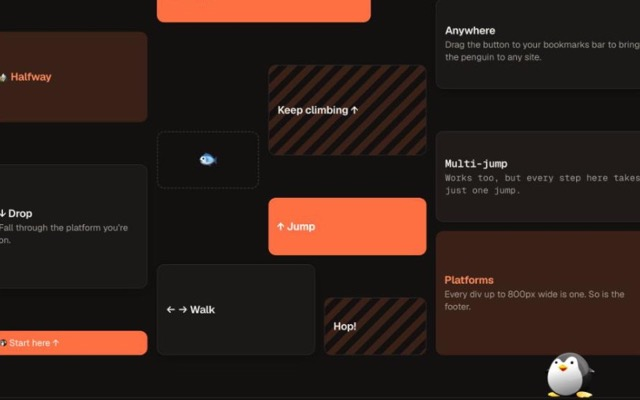
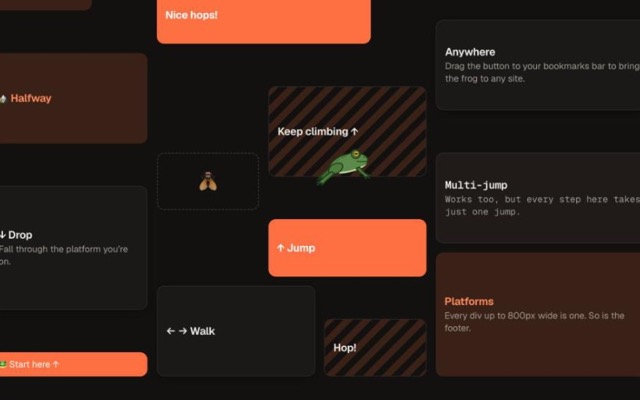
Div Jumper: the penguin is now an animated frog
- New sprites docs/site/images/frog.svg (sitting) and frog-leap.svg
  (mid-leap): a crouched tree frog in profile, flat and understated.
- divJumper.js swaps sprites in the air, stretches on takeoff, squashes
  on landing and tips nose-down when falling; feet are measured from the
  untransformed box so the animation never affects landings.
- The footer link, Div Jumper's project emoji and its page say frog/🐸;
  the page's fish is now a fly. penguin.png is gone.

diff --git a/docs/site/div-jumper/divJumper.js b/docs/site/div-jumper/divJumper.js
@@ -14,7 +14,7 @@ if (!document.ranDivJumper) {
 		// Arrows move, as in every game here: up jumps, down drops through.
 		// Inside, they keep the letters the game was written with.
 		var ARROWS = { ArrowUp: 'W', ArrowLeft: 'A', ArrowDown: 'S', ArrowRight: 'D' };
-		// The penguin sits beside this script, wherever it's served from.
+		// The frog's sprites sit beside this script, wherever it's served from.
 		var HERE = (document.currentScript && document.currentScript.src) || location.href;
 
 		document.addEventListener("keydown", function (evt) {
@@ -35,16 +35,26 @@ if (!document.ranDivJumper) {
 		});
 
 
+		// Two poses, both facing left in the same 120x84 box: sitting, and mid-leap.
+		var SIT = new URL("../images/frog.svg", HERE).href;
+		var LEAP = new URL("../images/frog-leap.svg", HERE).href;
+		new Image().src = LEAP; // preload, so the first hop doesn't flicker
+
 		var elem = document.createElement('img');
-		elem.src = new URL("../images/penguin.png", HERE).href;
-		// A page's own img styles mustn't move or squeeze the penguin.
+		elem.src = SIT;
+		elem.alt = "";
+		// A page's own img styles mustn't move or squeeze the frog.
 		elem.style.margin = "0";
 		elem.style.maxWidth = "none";
-		elem.addEventListener("load", () => {
+		elem.style.pointerEvents = "none";
+		elem.style.transformOrigin = "50% 100%"; // squash and tilt from the feet
+		elem.style.zIndex = "2147483647";
+		elem.addEventListener("load", function start() {
+			elem.removeEventListener("load", start); // swapping poses fires load again
 			BODY.appendChild(elem);
 			window.scrollTo(0, BODY.scrollHeight);
 			// Start on the bottom of the page, at the right, facing into the page.
-			CHAR = new Character(elem, DOC.clientWidth - 100, 0, 75);
+			CHAR = new Character(elem, DOC.clientWidth - 100, 0, 84);
 			LAST_TIME = new Date().getTime();
 			setInterval(tick, 20);
 		});
@@ -96,19 +106,19 @@ if (!document.ranDivJumper) {
 				KEY_RESPONDERS.push(this);
 				this.dy = 0;
 				this.on = this.under();
-
-				// console.log(elem.offsetHeight);
-				// elem.height = h;
-
-
+				this.facing = 1; // 1: left, as drawn; -1: mirrored to face right
+				this.jumpedAt = -Infinity;
+				this.landedAt = -Infinity;
+				this.pose();
 			}
 			tick(dt = 0) {
+				var wasUp = this.y > 0;
 				if (DOWN['D'] && !DOWN['A']) {
-					this.elem.style.transform = "rotateY(180deg)";
+					this.facing = -1;
 					this.setx(Math.min(DOC.clientWidth - this.elem.width / 2, this.x + dt * 0.5));
 				}
 				if (DOWN['A'] && !DOWN['D']) {
-					this.elem.style.transform = "rotateY(0deg)";
+					this.facing = 1;
 					this.setx(Math.max(this.elem.width / 2, this.x - dt * 0.5));
 				}
 
@@ -130,10 +140,31 @@ if (!document.ranDivJumper) {
 							this.sitOn(e2);
 						}
 					}
+					if (wasUp && this.y <= 0) this.landedAt = Date.now(); // hit the page bottom
 				}
+				this.pose();
 				this.follow();
 			}
-			// Scroll the page to keep the penguin in view (the arrow keys can't).
+			// Sitting or leaping sprite, a stretch on takeoff and a squash on landing,
+			// and a nose-down tilt on the way down.
+			pose() {
+				var now = Date.now();
+				var grounded = this.on || this.y <= 0;
+				var src = grounded ? SIT : LEAP;
+				if (this.elem.src !== src) this.elem.src = src;
+				var sx = 1, sy = 1, tilt = 0, k;
+				if (now - this.landedAt < 140) {
+					k = 1 - (now - this.landedAt) / 140;
+					sx = 1 + 0.12 * k; sy = 1 - 0.16 * k;
+				} else if (now - this.jumpedAt < 160) {
+					k = 1 - (now - this.jumpedAt) / 160;
+					sx = 1 - 0.08 * k; sy = 1 + 0.12 * k;
+				}
+				if (!grounded && this.dy < 0) tilt = Math.max(-18, this.dy * 18);
+				this.elem.style.transform =
+					"scaleX(" + this.facing * sx + ") scaleY(" + sy + ") rotate(" + tilt + "deg)";
+			}
+			// Scroll the page to keep the frog in view (the arrow keys can't).
 			follow() {
 				var r = this.elem.getBoundingClientRect();
 				var margin = Math.min(160, window.innerHeight / 4);
@@ -144,6 +175,7 @@ if (!document.ranDivJumper) {
 				}
 			}
 			sitOn(elem) {
+				if (!this.on) this.landedAt = Date.now();
 				this.on = elem;
 				this.dy = 0;
 				this.settop(elem.getBoundingClientRect().top - BODY.getBoundingClientRect().top - this.elem.height);
@@ -151,6 +183,7 @@ if (!document.ranDivJumper) {
 			jump(elem) {
 				this.dy = 1;
 				this.on = null;
+				this.jumpedAt = Date.now();
 			}
 			key(c) {
 				switch (c) {
@@ -160,8 +193,10 @@ if (!document.ranDivJumper) {
 				}
 			}
 			under() {
-				var rect = this.elem.getBoundingClientRect();
-				return getDiv(document.elementFromPoint((rect.left + rect.right) / 2, rect.bottom + 1));
+				// Measure the untransformed box, so squash and tilt never move the feet.
+				var x = this.elem.offsetLeft + this.elem.offsetWidth / 2 - window.scrollX;
+				var bottom = this.elem.offsetTop + this.elem.offsetHeight - window.scrollY;
+				return getDiv(document.elementFromPoint(x, bottom + 1));
 			}
 			remove() {
 				TICK_RESPONDERS.splice(TICK_RESPONDERS.indexOf(this), 1);

diff --git a/docs/site/div-jumper/index.html b/docs/site/div-jumper/index.html
@@ -83,30 +83,30 @@
     <p><strong>Click to play on this page</strong>, or drag the button to your bookmarks bar to play on any site.</p>
   </div>
   <section class="jumper-grid" aria-label="Platforms">
-    <div class="pf e" style="grid-area: 1 / 1 / span 2 / span 2"><span class="big">🐧</span></div>
+    <div class="pf e" style="grid-area: 1 / 1 / span 2 / span 2"><span class="big">🐸</span></div>
     <div class="pf b" style="grid-area: 1 / 3 / span 2 / span 5"><h3>🎯 Goal</h3><p>Climb all the way to the ☀ button at the top.</p></div>
     <div class="pf c" style="grid-area: 1 / 8 / span 1 / span 5"><p>↑ The title and the ☀ button are platforms too</p></div>
     <div class="pf b" style="grid-area: 3 / 1 / span 3 / span 2"><span class="big">🎈</span></div>
     <div class="pf a" style="grid-area: 3 / 8 / span 2 / span 5"><h3>Almost there…</h3></div>
     <div class="pf d" style="grid-area: 5 / 4 / span 2 / span 4"><h3>Nice hops!</h3></div>
-    <div class="pf a" style="grid-area: 6 / 9 / span 3 / span 4"><h3>Anywhere</h3><p>Drag the button to your bookmarks bar to bring the penguin to any site.</p></div>
+    <div class="pf a" style="grid-area: 6 / 9 / span 3 / span 4"><h3>Anywhere</h3><p>Drag the button to your bookmarks bar to bring the frog to any site.</p></div>
     <div class="pf b" style="grid-area: 7 / 1 / span 3 / span 3"><h3>🏔 Halfway</h3></div>
     <div class="pf e" style="grid-area: 8 / 6 / span 3 / span 3"><h3>Keep climbing ↑</h3></div>
-    <div class="pf c" style="grid-area: 10 / 4 / span 2 / span 2"><span class="big">🐟</span></div>
+    <div class="pf c" style="grid-area: 10 / 4 / span 2 / span 2"><span class="big">🪰</span></div>
     <div class="pf f" style="grid-area: 10 / 9 / span 3 / span 4"><h3>Multi-jump</h3><p>Works too, but every step here takes just one jump.</p></div>
     <div class="pf a" style="grid-area: 11 / 1 / span 4 / span 3"><h3>↓ Drop</h3><p>Fall through the platform you’re on.</p></div>
     <div class="pf d" style="grid-area: 12 / 6 / span 2 / span 3"><h3>↑ Jump</h3></div>
     <div class="pf b" style="grid-area: 13 / 9 / span 4 / span 4"><h3>Platforms</h3><p>Every div up to 800px wide is one. So is the footer.</p></div>
     <div class="pf a" style="grid-area: 14 / 4 / span 3 / span 3"><h3>← → Walk</h3></div>
     <div class="pf e" style="grid-area: 15 / 7 / span 2 / span 2"><h3>Hop!</h3></div>
-    <div class="pf d" style="grid-area: 16 / 1 / span 1 / span 3"><p>🐧 Start here ↑</p></div>
+    <div class="pf d" style="grid-area: 16 / 1 / span 1 / span 3"><p>🐸 Start here ↑</p></div>
   </section>
 </article>
 </main>
 <footer class="site-footer">
   <div class="wrap">
     <span>&copy; Alexander Varga</span>
-    <nav aria-label="Elsewhere"><a href="https://github.com/asvarga" target="_blank" rel="noopener">GitHub</a><a href="https://www.linkedin.com/in/alexander-varga/" target="_blank" rel="noopener">LinkedIn</a><a href="https://www.stackoverflow.com/users/1684606/alex-varga" target="_blank" rel="noopener">Stack Overflow</a><a href="https://www.youtube.com/user/avarga93/videos" target="_blank" rel="noopener">YouTube</a><a href="https://www.flickr.com/photos/124356640@N03" target="_blank" rel="noopener">Flickr</a><a href="https://www.vimeo.com/user99108597" target="_blank" rel="noopener">Vimeo</a><a class="summon" href="javascript:var s=document.createElement('script');document.body.appendChild(s);s.id='divJumper';s.src='https://asvarga.com/site/div-jumper/divJumper.js';void(0);" title="Summon the penguin" aria-label="Div Jumper: summon the penguin">🐧</a></nav>
+    <nav aria-label="Elsewhere"><a href="https://github.com/asvarga" target="_blank" rel="noopener">GitHub</a><a href="https://www.linkedin.com/in/alexander-varga/" target="_blank" rel="noopener">LinkedIn</a><a href="https://www.stackoverflow.com/users/1684606/alex-varga" target="_blank" rel="noopener">Stack Overflow</a><a href="https://www.youtube.com/user/avarga93/videos" target="_blank" rel="noopener">YouTube</a><a href="https://www.flickr.com/photos/124356640@N03" target="_blank" rel="noopener">Flickr</a><a href="https://www.vimeo.com/user99108597" target="_blank" rel="noopener">Vimeo</a><a class="summon" href="javascript:var s=document.createElement('script');document.body.appendChild(s);s.id='divJumper';s.src='https://asvarga.com/site/div-jumper/divJumper.js';void(0);" title="Summon the frog" aria-label="Div Jumper: summon the frog">🐸</a></nav>
   </div>
 </footer>
 </body>

diff --git a/docs/site/index.html b/docs/site/index.html
@@ -111,7 +111,7 @@
     </li>
     <li class="card" data-platform>
       <div class="shot"><img src="/files/projects/div-jumper.jpg" alt="" loading="lazy"></div>
-      <h3><span class="emoji" aria-hidden="true">🐧</span> <a href="/site/div-jumper/">Div Jumper</a> </h3>
+      <h3><span class="emoji" aria-hidden="true">🐸</span> <a href="/site/div-jumper/">Div Jumper</a> </h3>
       <p>A platformer in a bookmarklet: play it on this site, or drag it to your bookmarks bar and play on any site.</p>
       <div class="links"><span class="tag">#games</span></div>
     </li>
@@ -127,7 +127,7 @@
 <footer class="site-footer">
   <div class="wrap">
     <span>&copy; Alexander Varga</span>
-    <nav aria-label="Elsewhere"><a href="https://github.com/asvarga" target="_blank" rel="noopener">GitHub</a><a href="https://www.linkedin.com/in/alexander-varga/" target="_blank" rel="noopener">LinkedIn</a><a href="https://www.stackoverflow.com/users/1684606/alex-varga" target="_blank" rel="noopener">Stack Overflow</a><a href="https://www.youtube.com/user/avarga93/videos" target="_blank" rel="noopener">YouTube</a><a href="https://www.flickr.com/photos/124356640@N03" target="_blank" rel="noopener">Flickr</a><a href="https://www.vimeo.com/user99108597" target="_blank" rel="noopener">Vimeo</a><a class="summon" href="javascript:var s=document.createElement('script');document.body.appendChild(s);s.id='divJumper';s.src='https://asvarga.com/site/div-jumper/divJumper.js';void(0);" title="Summon the penguin" aria-label="Div Jumper: summon the penguin">🐧</a></nav>
+    <nav aria-label="Elsewhere"><a href="https://github.com/asvarga" target="_blank" rel="noopener">GitHub</a><a href="https://www.linkedin.com/in/alexander-varga/" target="_blank" rel="noopener">LinkedIn</a><a href="https://www.stackoverflow.com/users/1684606/alex-varga" target="_blank" rel="noopener">Stack Overflow</a><a href="https://www.youtube.com/user/avarga93/videos" target="_blank" rel="noopener">YouTube</a><a href="https://www.flickr.com/photos/124356640@N03" target="_blank" rel="noopener">Flickr</a><a href="https://www.vimeo.com/user99108597" target="_blank" rel="noopener">Vimeo</a><a class="summon" href="javascript:var s=document.createElement('script');document.body.appendChild(s);s.id='divJumper';s.src='https://asvarga.com/site/div-jumper/divJumper.js';void(0);" title="Summon the frog" aria-label="Div Jumper: summon the frog">🐸</a></nav>
   </div>
 </footer>
 </body>

diff --git a/docs/site/ackermann/index.html b/docs/site/ackermann/index.html
@@ -53,7 +53,7 @@ The default settings show A(3, 1) reducing to 13.
 <footer class="site-footer">
   <div class="wrap">
     <span>&copy; Alexander Varga</span>
-    <nav aria-label="Elsewhere"><a href="https://github.com/asvarga" target="_blank" rel="noopener">GitHub</a><a href="https://www.linkedin.com/in/alexander-varga/" target="_blank" rel="noopener">LinkedIn</a><a href="https://www.stackoverflow.com/users/1684606/alex-varga" target="_blank" rel="noopener">Stack Overflow</a><a href="https://www.youtube.com/user/avarga93/videos" target="_blank" rel="noopener">YouTube</a><a href="https://www.flickr.com/photos/124356640@N03" target="_blank" rel="noopener">Flickr</a><a href="https://www.vimeo.com/user99108597" target="_blank" rel="noopener">Vimeo</a><a class="summon" href="javascript:var s=document.createElement('script');document.body.appendChild(s);s.id='divJumper';s.src='https://asvarga.com/site/div-jumper/divJumper.js';void(0);" title="Summon the penguin" aria-label="Div Jumper: summon the penguin">🐧</a></nav>
+    <nav aria-label="Elsewhere"><a href="https://github.com/asvarga" target="_blank" rel="noopener">GitHub</a><a href="https://www.linkedin.com/in/alexander-varga/" target="_blank" rel="noopener">LinkedIn</a><a href="https://www.stackoverflow.com/users/1684606/alex-varga" target="_blank" rel="noopener">Stack Overflow</a><a href="https://www.youtube.com/user/avarga93/videos" target="_blank" rel="noopener">YouTube</a><a href="https://www.flickr.com/photos/124356640@N03" target="_blank" rel="noopener">Flickr</a><a href="https://www.vimeo.com/user99108597" target="_blank" rel="noopener">Vimeo</a><a class="summon" href="javascript:var s=document.createElement('script');document.body.appendChild(s);s.id='divJumper';s.src='https://asvarga.com/site/div-jumper/divJumper.js';void(0);" title="Summon the frog" aria-label="Div Jumper: summon the frog">🐸</a></nav>
   </div>
 </footer>
 <script>addEventListener("load", init);</script>

diff --git a/docs/site/hybrid-env/index.html b/docs/site/hybrid-env/index.html
@@ -405,7 +405,7 @@
 <footer class="site-footer">
   <div class="wrap">
     <span>&copy; Alexander Varga</span>
-    <nav aria-label="Elsewhere"><a href="https://github.com/asvarga" target="_blank" rel="noopener">GitHub</a><a href="https://www.linkedin.com/in/alexander-varga/" target="_blank" rel="noopener">LinkedIn</a><a href="https://www.stackoverflow.com/users/1684606/alex-varga" target="_blank" rel="noopener">Stack Overflow</a><a href="https://www.youtube.com/user/avarga93/videos" target="_blank" rel="noopener">YouTube</a><a href="https://www.flickr.com/photos/124356640@N03" target="_blank" rel="noopener">Flickr</a><a href="https://www.vimeo.com/user99108597" target="_blank" rel="noopener">Vimeo</a><a class="summon" href="javascript:var s=document.createElement('script');document.body.appendChild(s);s.id='divJumper';s.src='https://asvarga.com/site/div-jumper/divJumper.js';void(0);" title="Summon the penguin" aria-label="Div Jumper: summon the penguin">🐧</a></nav>
+    <nav aria-label="Elsewhere"><a href="https://github.com/asvarga" target="_blank" rel="noopener">GitHub</a><a href="https://www.linkedin.com/in/alexander-varga/" target="_blank" rel="noopener">LinkedIn</a><a href="https://www.stackoverflow.com/users/1684606/alex-varga" target="_blank" rel="noopener">Stack Overflow</a><a href="https://www.youtube.com/user/avarga93/videos" target="_blank" rel="noopener">YouTube</a><a href="https://www.flickr.com/photos/124356640@N03" target="_blank" rel="noopener">Flickr</a><a href="https://www.vimeo.com/user99108597" target="_blank" rel="noopener">Vimeo</a><a class="summon" href="javascript:var s=document.createElement('script');document.body.appendChild(s);s.id='divJumper';s.src='https://asvarga.com/site/div-jumper/divJumper.js';void(0);" title="Summon the frog" aria-label="Div Jumper: summon the frog">🐸</a></nav>
   </div>
 </footer>
 <script src="https://cdnjs.cloudflare.com/ajax/libs/ace/1.2.4/ace.js"></script>

diff --git a/docs/blog/2024/06/22/fair-chess-and-simultaneous-games/index.html b/docs/blog/2024/06/22/fair-chess-and-simultaneous-games/index.html
@@ -184,7 +184,7 @@ Empty Board:
 <footer class="site-footer">
   <div class="wrap">
     <span>&copy; Alexander Varga</span>
-    <nav aria-label="Elsewhere"><a href="https://github.com/asvarga" target="_blank" rel="noopener">GitHub</a><a href="https://www.linkedin.com/in/alexander-varga/" target="_blank" rel="noopener">LinkedIn</a><a href="https://www.stackoverflow.com/users/1684606/alex-varga" target="_blank" rel="noopener">Stack Overflow</a><a href="https://www.youtube.com/user/avarga93/videos" target="_blank" rel="noopener">YouTube</a><a href="https://www.flickr.com/photos/124356640@N03" target="_blank" rel="noopener">Flickr</a><a href="https://www.vimeo.com/user99108597" target="_blank" rel="noopener">Vimeo</a><a class="summon" href="javascript:var s=document.createElement('script');document.body.appendChild(s);s.id='divJumper';s.src='https://asvarga.com/site/div-jumper/divJumper.js';void(0);" title="Summon the penguin" aria-label="Div Jumper: summon the penguin">🐧</a></nav>
+    <nav aria-label="Elsewhere"><a href="https://github.com/asvarga" target="_blank" rel="noopener">GitHub</a><a href="https://www.linkedin.com/in/alexander-varga/" target="_blank" rel="noopener">LinkedIn</a><a href="https://www.stackoverflow.com/users/1684606/alex-varga" target="_blank" rel="noopener">Stack Overflow</a><a href="https://www.youtube.com/user/avarga93/videos" target="_blank" rel="noopener">YouTube</a><a href="https://www.flickr.com/photos/124356640@N03" target="_blank" rel="noopener">Flickr</a><a href="https://www.vimeo.com/user99108597" target="_blank" rel="noopener">Vimeo</a><a class="summon" href="javascript:var s=document.createElement('script');document.body.appendChild(s);s.id='divJumper';s.src='https://asvarga.com/site/div-jumper/divJumper.js';void(0);" title="Summon the frog" aria-label="Div Jumper: summon the frog">🐸</a></nav>
   </div>
 </footer>
 </body>

diff --git a/docs/blog/2026/03/24/nanobots/index.html b/docs/blog/2026/03/24/nanobots/index.html
@@ -85,7 +85,7 @@ while true:
 <footer class="site-footer">
   <div class="wrap">
     <span>&copy; Alexander Varga</span>
-    <nav aria-label="Elsewhere"><a href="https://github.com/asvarga" target="_blank" rel="noopener">GitHub</a><a href="https://www.linkedin.com/in/alexander-varga/" target="_blank" rel="noopener">LinkedIn</a><a href="https://www.stackoverflow.com/users/1684606/alex-varga" target="_blank" rel="noopener">Stack Overflow</a><a href="https://www.youtube.com/user/avarga93/videos" target="_blank" rel="noopener">YouTube</a><a href="https://www.flickr.com/photos/124356640@N03" target="_blank" rel="noopener">Flickr</a><a href="https://www.vimeo.com/user99108597" target="_blank" rel="noopener">Vimeo</a><a class="summon" href="javascript:var s=document.createElement('script');document.body.appendChild(s);s.id='divJumper';s.src='https://asvarga.com/site/div-jumper/divJumper.js';void(0);" title="Summon the penguin" aria-label="Div Jumper: summon the penguin">🐧</a></nav>
+    <nav aria-label="Elsewhere"><a href="https://github.com/asvarga" target="_blank" rel="noopener">GitHub</a><a href="https://www.linkedin.com/in/alexander-varga/" target="_blank" rel="noopener">LinkedIn</a><a href="https://www.stackoverflow.com/users/1684606/alex-varga" target="_blank" rel="noopener">Stack Overflow</a><a href="https://www.youtube.com/user/avarga93/videos" target="_blank" rel="noopener">YouTube</a><a href="https://www.flickr.com/photos/124356640@N03" target="_blank" rel="noopener">Flickr</a><a href="https://www.vimeo.com/user99108597" target="_blank" rel="noopener">Vimeo</a><a class="summon" href="javascript:var s=document.createElement('script');document.body.appendChild(s);s.id='divJumper';s.src='https://asvarga.com/site/div-jumper/divJumper.js';void(0);" title="Summon the frog" aria-label="Div Jumper: summon the frog">🐸</a></nav>
   </div>
 </footer>
 </body>

diff --git a/docs/blog/2020/10/21/pure-lists-with-ologi-indexing/index.html b/docs/blog/2020/10/21/pure-lists-with-ologi-indexing/index.html
@@ -113,7 +113,7 @@
 <footer class="site-footer">
   <div class="wrap">
     <span>&copy; Alexander Varga</span>
-    <nav aria-label="Elsewhere"><a href="https://github.com/asvarga" target="_blank" rel="noopener">GitHub</a><a href="https://www.linkedin.com/in/alexander-varga/" target="_blank" rel="noopener">LinkedIn</a><a href="https://www.stackoverflow.com/users/1684606/alex-varga" target="_blank" rel="noopener">Stack Overflow</a><a href="https://www.youtube.com/user/avarga93/videos" target="_blank" rel="noopener">YouTube</a><a href="https://www.flickr.com/photos/124356640@N03" target="_blank" rel="noopener">Flickr</a><a href="https://www.vimeo.com/user99108597" target="_blank" rel="noopener">Vimeo</a><a class="summon" href="javascript:var s=document.createElement('script');document.body.appendChild(s);s.id='divJumper';s.src='https://asvarga.com/site/div-jumper/divJumper.js';void(0);" title="Summon the penguin" aria-label="Div Jumper: summon the penguin">🐧</a></nav>
+    <nav aria-label="Elsewhere"><a href="https://github.com/asvarga" target="_blank" rel="noopener">GitHub</a><a href="https://www.linkedin.com/in/alexander-varga/" target="_blank" rel="noopener">LinkedIn</a><a href="https://www.stackoverflow.com/users/1684606/alex-varga" target="_blank" rel="noopener">Stack Overflow</a><a href="https://www.youtube.com/user/avarga93/videos" target="_blank" rel="noopener">YouTube</a><a href="https://www.flickr.com/photos/124356640@N03" target="_blank" rel="noopener">Flickr</a><a href="https://www.vimeo.com/user99108597" target="_blank" rel="noopener">Vimeo</a><a class="summon" href="javascript:var s=document.createElement('script');document.body.appendChild(s);s.id='divJumper';s.src='https://asvarga.com/site/div-jumper/divJumper.js';void(0);" title="Summon the frog" aria-label="Div Jumper: summon the frog">🐸</a></nav>
   </div>
 </footer>
 </body>

diff --git a/docs/blog/2022/07/18/transfinite-meta-programming---part-2/index.html b/docs/blog/2022/07/18/transfinite-meta-programming---part-2/index.html
@@ -150,7 +150,7 @@
 <footer class="site-footer">
   <div class="wrap">
     <span>&copy; Alexander Varga</span>
-    <nav aria-label="Elsewhere"><a href="https://github.com/asvarga" target="_blank" rel="noopener">GitHub</a><a href="https://www.linkedin.com/in/alexander-varga/" target="_blank" rel="noopener">LinkedIn</a><a href="https://www.stackoverflow.com/users/1684606/alex-varga" target="_blank" rel="noopener">Stack Overflow</a><a href="https://www.youtube.com/user/avarga93/videos" target="_blank" rel="noopener">YouTube</a><a href="https://www.flickr.com/photos/124356640@N03" target="_blank" rel="noopener">Flickr</a><a href="https://www.vimeo.com/user99108597" target="_blank" rel="noopener">Vimeo</a><a class="summon" href="javascript:var s=document.createElement('script');document.body.appendChild(s);s.id='divJumper';s.src='https://asvarga.com/site/div-jumper/divJumper.js';void(0);" title="Summon the penguin" aria-label="Div Jumper: summon the penguin">🐧</a></nav>
+    <nav aria-label="Elsewhere"><a href="https://github.com/asvarga" target="_blank" rel="noopener">GitHub</a><a href="https://www.linkedin.com/in/alexander-varga/" target="_blank" rel="noopener">LinkedIn</a><a href="https://www.stackoverflow.com/users/1684606/alex-varga" target="_blank" rel="noopener">Stack Overflow</a><a href="https://www.youtube.com/user/avarga93/videos" target="_blank" rel="noopener">YouTube</a><a href="https://www.flickr.com/photos/124356640@N03" target="_blank" rel="noopener">Flickr</a><a href="https://www.vimeo.com/user99108597" target="_blank" rel="noopener">Vimeo</a><a class="summon" href="javascript:var s=document.createElement('script');document.body.appendChild(s);s.id='divJumper';s.src='https://asvarga.com/site/div-jumper/divJumper.js';void(0);" title="Summon the frog" aria-label="Div Jumper: summon the frog">🐸</a></nav>
   </div>
 </footer>
 </body>

diff --git a/docs/blog/index.html b/docs/blog/index.html
@@ -144,7 +144,7 @@
 <footer class="site-footer">
   <div class="wrap">
     <span>&copy; Alexander Varga</span>
-    <nav aria-label="Elsewhere"><a href="https://github.com/asvarga" target="_blank" rel="noopener">GitHub</a><a href="https://www.linkedin.com/in/alexander-varga/" target="_blank" rel="noopener">LinkedIn</a><a href="https://www.stackoverflow.com/users/1684606/alex-varga" target="_blank" rel="noopener">Stack Overflow</a><a href="https://www.youtube.com/user/avarga93/videos" target="_blank" rel="noopener">YouTube</a><a href="https://www.flickr.com/photos/124356640@N03" target="_blank" rel="noopener">Flickr</a><a href="https://www.vimeo.com/user99108597" target="_blank" rel="noopener">Vimeo</a><a class="summon" href="javascript:var s=document.createElement('script');document.body.appendChild(s);s.id='divJumper';s.src='https://asvarga.com/site/div-jumper/divJumper.js';void(0);" title="Summon the penguin" aria-label="Div Jumper: summon the penguin">🐧</a></nav>
+    <nav aria-label="Elsewhere"><a href="https://github.com/asvarga" target="_blank" rel="noopener">GitHub</a><a href="https://www.linkedin.com/in/alexander-varga/" target="_blank" rel="noopener">LinkedIn</a><a href="https://www.stackoverflow.com/users/1684606/alex-varga" target="_blank" rel="noopener">Stack Overflow</a><a href="https://www.youtube.com/user/avarga93/videos" target="_blank" rel="noopener">YouTube</a><a href="https://www.flickr.com/photos/124356640@N03" target="_blank" rel="noopener">Flickr</a><a href="https://www.vimeo.com/user99108597" target="_blank" rel="noopener">Vimeo</a><a class="summon" href="javascript:var s=document.createElement('script');document.body.appendChild(s);s.id='divJumper';s.src='https://asvarga.com/site/div-jumper/divJumper.js';void(0);" title="Summon the frog" aria-label="Div Jumper: summon the frog">🐸</a></nav>
   </div>
 </footer>
 </body>

diff --git a/docs/index.html b/docs/index.html
@@ -101,7 +101,7 @@
 <footer class="site-footer">
   <div class="wrap">
     <span>&copy; Alexander Varga</span>
-    <nav aria-label="Elsewhere"><a href="https://github.com/asvarga" target="_blank" rel="noopener">GitHub</a><a href="https://www.linkedin.com/in/alexander-varga/" target="_blank" rel="noopener">LinkedIn</a><a href="https://www.stackoverflow.com/users/1684606/alex-varga" target="_blank" rel="noopener">Stack Overflow</a><a href="https://www.youtube.com/user/avarga93/videos" target="_blank" rel="noopener">YouTube</a><a href="https://www.flickr.com/photos/124356640@N03" target="_blank" rel="noopener">Flickr</a><a href="https://www.vimeo.com/user99108597" target="_blank" rel="noopener">Vimeo</a><a class="summon" href="javascript:var s=document.createElement('script');document.body.appendChild(s);s.id='divJumper';s.src='https://asvarga.com/site/div-jumper/divJumper.js';void(0);" title="Summon the penguin" aria-label="Div Jumper: summon the penguin">🐧</a></nav>
+    <nav aria-label="Elsewhere"><a href="https://github.com/asvarga" target="_blank" rel="noopener">GitHub</a><a href="https://www.linkedin.com/in/alexander-varga/" target="_blank" rel="noopener">LinkedIn</a><a href="https://www.stackoverflow.com/users/1684606/alex-varga" target="_blank" rel="noopener">Stack Overflow</a><a href="https://www.youtube.com/user/avarga93/videos" target="_blank" rel="noopener">YouTube</a><a href="https://www.flickr.com/photos/124356640@N03" target="_blank" rel="noopener">Flickr</a><a href="https://www.vimeo.com/user99108597" target="_blank" rel="noopener">Vimeo</a><a class="summon" href="javascript:var s=document.createElement('script');document.body.appendChild(s);s.id='divJumper';s.src='https://asvarga.com/site/div-jumper/divJumper.js';void(0);" title="Summon the frog" aria-label="Div Jumper: summon the frog">🐸</a></nav>
   </div>
 </footer>
 </body>

diff --git a/docs/wiki/Trace/index.html b/docs/wiki/Trace/index.html
@@ -843,7 +843,7 @@
 <footer class="site-footer">
   <div class="wrap">
     <span>&copy; Alexander Varga</span>
-    <nav aria-label="Elsewhere"><a href="https://github.com/asvarga" target="_blank" rel="noopener">GitHub</a><a href="https://www.linkedin.com/in/alexander-varga/" target="_blank" rel="noopener">LinkedIn</a><a href="https://www.stackoverflow.com/users/1684606/alex-varga" target="_blank" rel="noopener">Stack Overflow</a><a href="https://www.youtube.com/user/avarga93/videos" target="_blank" rel="noopener">YouTube</a><a href="https://www.flickr.com/photos/124356640@N03" target="_blank" rel="noopener">Flickr</a><a href="https://www.vimeo.com/user99108597" target="_blank" rel="noopener">Vimeo</a><a class="summon" href="javascript:var s=document.createElement('script');document.body.appendChild(s);s.id='divJumper';s.src='https://asvarga.com/site/div-jumper/divJumper.js';void(0);" title="Summon the penguin" aria-label="Div Jumper: summon the penguin">🐧</a></nav>
+    <nav aria-label="Elsewhere"><a href="https://github.com/asvarga" target="_blank" rel="noopener">GitHub</a><a href="https://www.linkedin.com/in/alexander-varga/" target="_blank" rel="noopener">LinkedIn</a><a href="https://www.stackoverflow.com/users/1684606/alex-varga" target="_blank" rel="noopener">Stack Overflow</a><a href="https://www.youtube.com/user/avarga93/videos" target="_blank" rel="noopener">YouTube</a><a href="https://www.flickr.com/photos/124356640@N03" target="_blank" rel="noopener">Flickr</a><a href="https://www.vimeo.com/user99108597" target="_blank" rel="noopener">Vimeo</a><a class="summon" href="javascript:var s=document.createElement('script');document.body.appendChild(s);s.id='divJumper';s.src='https://asvarga.com/site/div-jumper/divJumper.js';void(0);" title="Summon the frog" aria-label="Div Jumper: summon the frog">🐸</a></nav>
   </div>
 </footer>
 </body>
